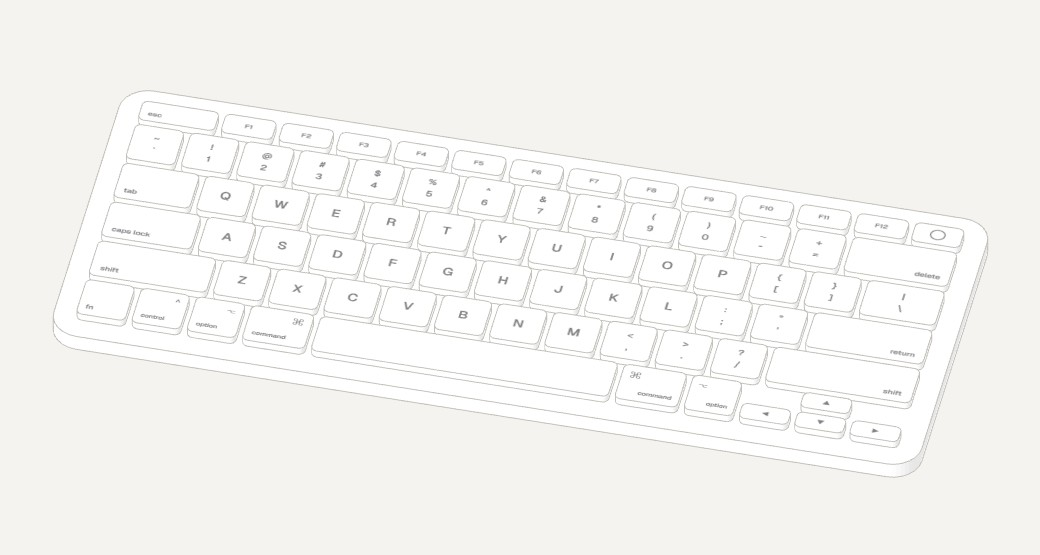
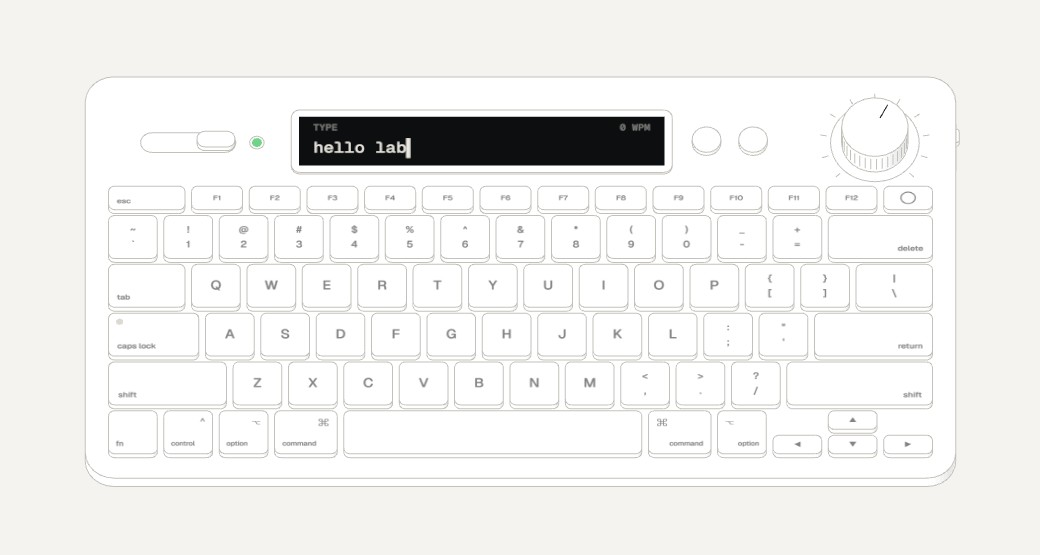
Lab: Keyboard open, with its control strip and a fixed straight view; Desk Lamp to the end

Changed region(s): [[0.0615, 0.1532, 0.9231, 0.8883], [0.8615, 0.245, 0.8923, 0.2757], [0.0923, 0.7045, 0.1231, 0.7351]]

diff --git a/lab-board/pieces/keyboard/index.html b/lab-board/pieces/keyboard/index.html
@@ -2,7 +2,6 @@
 <html lang="en">
 <head>
 <meta charset="utf-8">
-<script src="../../shared/lab-lock.js?v=3"></script>
 <meta name="viewport" content="width=device-width, initial-scale=1, viewport-fit=cover">
 <title>Keyboard · lab</title>
 <meta name="theme-color" content="#f4f3ef">
@@ -14,14 +13,14 @@
   /* A flat Mac keyboard drawn like Line Interactions: low keys in an aluminium slab, thin lines over quiet fills, every key a rounded
      cap with its legend printed on top in the lab's type, the keys laid out as on a flat low-profile keyboard with command and option keys. Point at a key and it lights; click it, or type
      on your own keyboard, and it goes down with a soft click and comes back up (the click synthesised on the spot, Soft, Thock or Crisp).
-     Drag the ground to turn it, the wheel or − / + to zoom. */
+     The view is fixed, straight on; the wheel or − / + zooms. */
   :root { --page: #17181b; --plate: #121314; --morph: .55s cubic-bezier(.3,1.12,.4,1); --ease: cubic-bezier(.22,.61,.36,1); }
   body.light { --page: #fff; --plate: #f4f3ef; }
   * { box-sizing: border-box; -webkit-tap-highlight-color: transparent; }
   html, body { margin: 0; height: 100%; }
   body { background: var(--page); font-family: var(--lab-font); overflow: hidden; transition: background .4s; }
   .plate { position: fixed; inset: 0; overflow: hidden; touch-action: none; cursor: move; background: var(--plate); transition: inset var(--morph), border-radius var(--morph), background-color .4s; }
-  .plate.over { cursor: pointer; } .plate.dragging, .plate.dragging * { cursor: grabbing; }
+  .plate.over { cursor: pointer; }
   body.tuning .plate { inset: 16px 368px 16px 16px; border-radius: 26px; }
   .plate canvas { position: absolute; inset: 0; width: 100%; height: 100%; display: block; }
   .back, .tune, .mode { position: fixed; top: 16px; z-index: 6; }
@@ -63,7 +62,7 @@
 <a class="back" href="../../" aria-label="Back to the lab" title="Back to the lab"><svg viewBox="0 0 24 24" fill="none" stroke="currentColor" stroke-width="1.75" stroke-linecap="round" stroke-linejoin="round" aria-hidden="true"><path d="M19 12H5M11 18l-6-6 6-6"/></svg></a>
 <div class="mode lab-seg" id="mode" role="radiogroup" aria-label="Light or dark"><button type="button" role="radio" data-m="light">Light</button><button type="button" role="radio" data-m="dark">Dark</button></div>
 <button class="tune" id="tune" type="button" aria-controls="panel" aria-expanded="false"><svg viewBox="0 0 24 24" fill="none" stroke="currentColor" stroke-width="1.75" stroke-linecap="round" stroke-linejoin="round" aria-hidden="true"><path d="M4 7h10M18 7h2M4 17h4M12 17h8"/><circle cx="16" cy="7" r="2"/><circle cx="10" cy="17" r="2"/></svg>Customize</button>
-<main class="plate" id="plate" aria-label="A flat keyboard: click a key or type on your own keyboard; drag the ground to turn it"></main>
+<main class="plate" id="plate" aria-label="A flat keyboard: click a key or type on your own keyboard"></main>
 <p class="hint">Click a key, or type</p>
 <div class="view" role="group" aria-label="The view">
   <button type="button" id="zout" aria-label="Zoom out"><svg viewBox="0 0 24 24" fill="none" stroke="currentColor" stroke-width="1.8" stroke-linecap="round" aria-hidden="true"><path d="M6 12h12"/></svg></button>
@@ -80,7 +79,7 @@ import * as THREE from 'three';
 
 // ---------- the settings; kept in the browser ----------
 const KEY = 'lab.keyboard.v1';
-const DEF = { sound: true, vol: .6, click: 'soft', travel: .55 };
+const DEF = { sound: true, vol: .6, click: 'soft', travel: .55, light: true };
 let P = (() => { const p = { ...DEF }; try { const o = JSON.parse(localStorage.getItem(KEY) || '{}'); for (const k in DEF) if (typeof o[k] === typeof DEF[k]) p[k] = o[k]; } catch { } return p; })();
 const save = () => { try { const d = {}; for (const k in P) if (P[k] !== DEF[k]) d[k] = P[k]; localStorage.setItem(KEY, JSON.stringify(d)); } catch { } };
 const $ = id => document.getElementById(id), plate = $('plate');
@@ -148,6 +147,7 @@ const SFX = {
   tick(step, k = 'tick') { if (!rate(k, 55)) return; const c = snd(); if (!c) return; const t = c.currentTime, f = 520 * 2 ** (PENTA[Math.max(0, Math.min(PENTA.length - 1, step))] / 12);
     tone(c, t, f, 'sine', .07, .09, f * .985, .006); },
   press() { const c = snd(); if (!c) return; const t = c.currentTime; tone(c, t, 240, 'sine', .22, .12, 170, .004); burst(c, t, 900, .7, .12, .04, 'lowpass'); },
+  detent() { if (!rate('det', 25)) return; const c = snd(); if (!c) return; const t = c.currentTime; burst(c, t, 2400, 2, .1, .007, 'bandpass'); },   // (the knob's notches)
   thud() { const c = snd(); if (!c) return; const t = c.currentTime; tone(c, t, 150, 'sine', .3, .2, 85, .004); burst(c, t, 500, .7, .18, .08, 'lowpass'); } };
 for (const ev of ['pointerdown', 'keydown']) addEventListener(ev, () => { if (P.sound) snd(); }, { capture: true });   // (made, or woken, inside the first gesture, so the browser lets it sound)
 
@@ -172,96 +172,189 @@ function kbLegend(k) { const pw = 96, W = Math.round(k.w * pw), Hh = Math.round(
     else if (kind === 'mod' || kind === 'modr') { x.font = f(22); x.textAlign = kind === 'mod' ? 'right' : 'left'; x.fillText(alt, kind === 'mod' ? W - pad : pad, pad + 14); x.font = f(15); x.textAlign = kind === 'mod' ? 'left' : 'right'; x.fillText(main, kind === 'mod' ? pad : W - pad, Hh - pad - 8); }
     else if (kind === 'arrow') { x.font = f(18); x.textAlign = 'center'; x.fillText(main, W / 2, Hh / 2 + 1); }
     else if (kind === 'power') { x.strokeStyle = '#fff'; x.lineWidth = 2.5; x.beginPath(); x.arc(W / 2, Hh / 2, Hh * .26, 0, Math.PI * 2); x.stroke(); } }); }
-function build() { for (const o of [...KB.children]) { KB.remove(o); o.traverse(c => { c.geometry?.dispose(); if (c.material?.map) c.material.map.dispose(); }); } sils = []; kbKeys = []; kbHover = kbHeld = null;
-  const rowsH = KB_ROWS.reduce((a, r) => a + r.h, 0), BW = 15 * KB_U + .36, BD = rowsH * KB_U + .36, base = prism(BW, BD, KB_BASE, .26, KB); base.g.position.y = -KB_BASE;
-  let z = -rowsH * KB_U / 2;
+// ---------- the control strip behind the keys: a mute slide with its LED, a small screen with two round buttons, a knob that stands up ----------
+// (and on the right side of the slab a little slide for light and dark. Each part is drawn like the keys: rounded solids, thin lines)
+const STRIP = .95, SCREEN = { w: 3.3, d: .5 }, KNOB = { r: .3, h: .3 };
+let strip = {}, capsOn = false, shiftDown = 0, typed = '', presses = [], keyCount = 0, screenMode = 0, overlay = null, ripples = [];
+const SCREENS = ['type', 'stats', 'clock'];
+const scr = (() => { const c = document.createElement('canvas'); c.width = 720; c.height = 110; const t = new THREE.CanvasTexture(c); t.colorSpace = THREE.SRGBColorSpace; t.anisotropy = 4; return { c, x: c.getContext('2d'), t, dirty: true }; })();
+const wpm = () => { const now = performance.now(); presses = presses.filter(t => now - t < 12000); if (presses.length < 3) return 0; const span = Math.max(3000, now - presses[0]); return Math.round(presses.length / 5 / (span / 60000)); };
+function say(text, ms = 1300) { overlay = { text, until: performance.now() + ms }; scr.dirty = true; wake(); }
+function drawScreen() { const { c, x } = scr, W = c.width, H = c.height, now = performance.now(), mono = n => `500 ${n}px "Geist Mono", ui-monospace, monospace`;
+  x.fillStyle = '#0d0e10'; x.fillRect(0, 0, W, H); x.fillStyle = '#e9e7e0'; x.textBaseline = 'middle';
+  const dim = a => x.fillStyle = `rgba(233,231,224,${a})`;
+  if (overlay && now < overlay.until) { const o = overlay.text;
+    if (o.startsWith('VOLUME')) { x.font = mono(26); dim(.55); x.textAlign = 'left'; x.fillText('VOLUME', 28, 34); dim(1); x.textAlign = 'right'; x.fillText(Math.round(P.vol * 100) + '%', W - 28, 34);
+      const n = 24; for (let i = 0; i < n; i++) { dim(i < Math.round(P.vol * n) ? 1 : .18); x.fillRect(28 + i * ((W - 56) / n), 64, (W - 56) / n - 6, 22); } }
+    else { x.font = mono(34); x.textAlign = 'center'; dim(1); x.fillText(o, W / 2, H / 2); }
+    scr.t.needsUpdate = true; return; }
+  overlay = null; const m = SCREENS[screenMode];
+  if (m === 'type') { x.font = mono(20); x.textAlign = 'left'; dim(.5); x.fillText('TYPE', 28, 26); x.textAlign = 'right'; x.fillText(`${wpm()} WPM`, W - 28, 26);
+    x.font = mono(34); x.textAlign = 'left'; dim(1); const line = typed.slice(-30), caret = Math.floor(now / 530) % 2 === 0; x.fillText(line + (caret ? '▍' : ''), 28, 72); }
+  else if (m === 'stats') { const cells = [['WPM', String(wpm())], ['KEYS', String(keyCount)], ['CLICK', P.click.toUpperCase()], ['SOUND', P.sound ? Math.round(P.vol * 100) + '%' : 'OFF']];
+    cells.forEach(([a, b], i) => { const cx = 28 + i * (W - 56) / 4; x.textAlign = 'left'; x.font = mono(18); dim(.5); x.fillText(a, cx, 30); x.font = mono(32); dim(1); x.fillText(b, cx, 72); }); }
+  else { const d = new Date(), hh = String(d.getHours()).padStart(2, '0'), mm = String(d.getMinutes()).padStart(2, '0'), colon = d.getSeconds() % 2 === 0;
+    x.font = mono(54); x.textAlign = 'left'; dim(1); x.fillText(hh + (colon ? ':' : ' ') + mm, 28, H / 2 + 2); x.font = mono(20); x.textAlign = 'right'; dim(.5);
+    x.fillText(d.toLocaleDateString('en-GB', { weekday: 'short', day: 'numeric', month: 'short' }).toUpperCase(), W - 28, H / 2 + 2); }
+  scr.t.needsUpdate = true; }
+setInterval(() => { if (SCREENS[screenMode] !== 'stats' || overlay) { scr.dirty = true; wake(); } }, 500);   // (the caret blinks, the clock's colon too)
+
+function build() { for (const o of [...KB.children]) { KB.remove(o); o.traverse(c => { c.geometry?.dispose(); if (c.material?.map && c.material.map !== scr.t) c.material.map.dispose(); }); } sils = []; kbKeys = []; kbHover = kbHeld = null;
+  const rowsH = KB_ROWS.reduce((a, r) => a + r.h, 0), keysBack = -rowsH * KB_U / 2, BW = 15 * KB_U + .36, BD = rowsH * KB_U + .36 + STRIP, base = prism(BW, BD, KB_BASE, .26, KB);
+  base.g.position.set(0, -KB_BASE, -STRIP / 2); strip.base = base;
+  let z = keysBack;
   const add = (spec, x, zc, w, h) => { const g = new THREE.Group(); g.position.set(x, 0, zc); KB.add(g); const cw = w * KB_U - KB_GAP, cd = h * KB_U - KB_GAP;
-    const pr = prism(cw, cd, KB_T, Math.min(.055, cw / 2 - .001, cd / 2 - .001), g);
-    const k = { g, pr, m: pr.m, spec, code: spec[2], w, h, big: w >= 1.5 || spec[3] === 'space', d: { p: 0 }, down: false, lines: pr.lines };
+    const pr = prism(cw, cd, KB_T, Math.min(.055, cw / 2 - .001, cd / 2 - .001), g), mat = new THREE.LineBasicMaterial({ color: 0xc4c1ba }); for (const l of pr.lines) l.material = mat;
+    const k = { g, pr, m: pr.m, spec, code: spec[2], w, h, x, z: zc, big: w >= 1.5 || spec[3] === 'space', d: { p: 0 }, down: false, glow: 0, mat };
     const lm = new THREE.MeshBasicMaterial({ map: kbLegend(k), transparent: true, depthWrite: false }), lg = new THREE.Mesh(new THREE.PlaneGeometry(cw * .94, cd * .94).rotateX(-Math.PI / 2), lm); lg.position.y = KB_T + .002; pr.g.add(lg); k.legend = lg;
+    if (k.code === 'CapsLock') { const led = new THREE.Mesh(new THREE.CircleGeometry(.032, 20).rotateX(-Math.PI / 2), new THREE.MeshBasicMaterial({ color: 0x2a2b2f })); led.position.set(-cw / 2 + .1, KB_T + .004, -cd / 2 + .09); pr.g.add(led); strip.capsLed = led; }   // (the caps lock LED, on the key)
     kbKeys.push(k); return k; };
   for (const row of KB_ROWS) { let x = -15 * KB_U / 2; const zc = z + row.h * KB_U / 2;
     for (const spec of row.keys) { const w = spec[1];
       if (spec[0] === 'ARROWS') { const hz = KB_U / 4; add(['◀', 1, 'ArrowLeft', 'arrow'], x + KB_U / 2, zc + hz, 1, .5); add(['▲', 1, 'ArrowUp', 'arrow'], x + KB_U * 1.5, zc - hz, 1, .5); add(['▼', 1, 'ArrowDown', 'arrow'], x + KB_U * 1.5, zc + hz, 1, .5); add(['▶', 1, 'ArrowRight', 'arrow'], x + KB_U * 2.5, zc + hz, 1, .5); x += 3 * KB_U; continue; }
       add(spec, x + w * KB_U / 2, zc, w, row.h); x += w * KB_U; }
     z += row.h * KB_U; }
-  paint(); }
-// (a key goes down with a click and comes back with a softer one; the cap gives at the top, its foot stays on the slab, so the line
-// where it meets the slab is always drawn. No sound for the pointer passing over: the click is the sound)
-function kbPress(k, on) { if (!k || k.down === on) return; k.down = on; if (!BARE) SFX.key(k.big, !on); paint(); wake(); }
+  // (the strip: its parts sit on the slab, centred on a line behind the function row)
+  const sz = keysBack - STRIP / 2 + .02, X0 = -15 * KB_U / 2;
+  // the mute slide: a slot cut into the slab (drawn), a block that slides in it, the LED beside
+  const sl = new THREE.Group(); sl.position.set(X0 + .75, 0, sz); KB.add(sl); segs([...rrect(0, 0, .86, .2, .1, .003)], sl, M.line);
+  const knobS = prism(.34, .16, .07, .07, sl); strip.slide = { g: knobS.g, m: knobS.m, p: { p: P.sound ? 1 : 0 }, lines: knobS.lines };
+  const led = new THREE.Mesh(new THREE.CircleGeometry(.045, 24).rotateX(-Math.PI / 2), new THREE.MeshBasicMaterial({ color: 0x2a2b2f })); led.position.set(.62, .004, 0); sl.add(led); strip.led = led;
+  segs(circle(.62, 0, .065, .003, 24), sl, M.line);
+  // the screen: a dark glass set into the slab, a thin frame round it
+  const sc = new THREE.Group(); sc.position.set(-.35, 0, sz); KB.add(sc); const frame = prism(SCREEN.w + .14, SCREEN.d + .14, .03, .08, sc);
+  const glass = new THREE.Mesh(new THREE.PlaneGeometry(SCREEN.w, SCREEN.d).rotateX(-Math.PI / 2), new THREE.MeshBasicMaterial({ map: scr.t })); glass.position.y = .032; sc.add(glass); strip.frame = frame;
+  // two round buttons beside it
+  strip.btns = [0, 1].map(i => { const b = new THREE.Group(); b.position.set(-.35 + SCREEN.w / 2 + .38 + i * .42, 0, sz); KB.add(b); const pr = prism(.26, .26, .06, .129, b); return { g: b, pr, m: pr.m, d: { p: 0 }, down: false, lines: pr.lines, act: i ? 'click' : 'screen' }; });
+  // the knob: a short drum standing up, ribbed round its side, a notch on top that shows where it is
+  const kn = new THREE.Group(); kn.position.set(-X0 - .55, 0, sz); KB.add(kn); const turn = new THREE.Group(); kn.add(turn);
+  const kb = prism(KNOB.r * 2, KNOB.r * 2, KNOB.h, KNOB.r - .001, turn), rib = [];
+  for (let i = 0; i < 36; i++) { const a = i / 36 * Math.PI * 2; rib.push(V(Math.cos(a) * KNOB.r, .05, Math.sin(a) * KNOB.r), V(Math.cos(a) * KNOB.r, KNOB.h - .05, Math.sin(a) * KNOB.r)); }
+  kb.lines.push(segs(rib, turn)); kb.lines.push(segs([V(0, KNOB.h + .003, -KNOB.r * .35), V(0, KNOB.h + .003, -KNOB.r * .85)], turn, M.hi));
+  segs(circle(0, 0, KNOB.r + .1, .003, 48), kn); const ticks = []; for (let i = 0; i <= 10; i++) { const a = -Math.PI * .75 + i / 10 * Math.PI * 1.5 - Math.PI / 2; ticks.push(V(Math.cos(a) * (KNOB.r + .14), .003, Math.sin(a) * (KNOB.r + .14)), V(Math.cos(a) * (KNOB.r + .2), .003, Math.sin(a) * (KNOB.r + .2))); } segs(ticks, kn);
+  strip.knob = { g: kn, turn, m: kb.m, lines: kb.lines, ang: { p: volAng() } };
+  // the side slide (light / dark): on the right side of the slab, near the back
+  const ss = new THREE.Group(); ss.position.set(BW / 2 + .002, -KB_BASE / 2, keysBack - STRIP + .5); KB.add(ss); segs([V(0, -.04, -.22), V(0, -.04, .22), V(0, .04, -.22), V(0, .04, .22), V(0, -.04, -.22), V(0, .04, -.22), V(0, -.04, .22), V(0, .04, .22)], ss);
+  const nub = prism(.06, .14, .07, .03, ss); nub.g.position.y = -.035; strip.side = { g: nub.g, m: nub.m, lines: nub.lines, p: { p: mode === 'dark' ? 1 : 0 } };
+  paint(); scr.dirty = true; }
+const volAng = () => -Math.PI * .75 + P.vol * Math.PI * 1.5;
+function circle(cx, cz, r, y, n) { const pts = []; for (let i = 0; i < n; i++) { const a = i / n * Math.PI * 2, b = (i + 1) / n * Math.PI * 2; pts.push(V(cx + Math.cos(a) * r, y, cz + Math.sin(a) * r), V(cx + Math.cos(b) * r, y, cz + Math.sin(b) * r)); } return pts; }
+
+// ---------- keys: down with a click and back up; what they type goes to the screen; the backlight answers ----------
+// (a pressed key lights at once and fades; a ring of light runs out from it across its neighbours. No sound for the pointer passing
+// over: the click is the sound)
+const charOf = k => { const [main, , , kind, alt] = k.spec, up = !!shiftDown !== capsOn;
+  if (kind === 'letter') return up ? main : main.toLowerCase(); if (kind === 'two') return shiftDown ? alt : main; if (k.code === 'Space') return ' '; return null; };
+function kbPress(k, on) { if (!k || k.down === on) return; k.down = on; if (!BARE) SFX.key(k.big, !on);
+  if (k.code === 'ShiftLeft' || k.code === 'ShiftRight') shiftDown = Math.max(0, shiftDown + (on ? 1 : -1));
+  if (on) { keyCount++; k.glow = 1; if (P.light) ripples.push({ x: k.x, z: k.z, t0: performance.now() });
+    if (k.code === 'CapsLock') { capsOn = !capsOn; say(capsOn ? 'CAPS LOCK ON' : 'CAPS LOCK OFF', 900); }
+    else if (k.code === 'Backspace') typed = typed.slice(0, -1); else if (k.code === 'Enter') typed = ''; else { const ch = charOf(k); if (ch) { typed = (typed + ch).slice(-200); presses.push(performance.now()); } }
+    scr.dirty = true; }
+  paint(); wake(); }
 function paint() { const c = PAL[mode]; M.fill.color.set(c.fill); M.line.color.set(c.line); M.hi.color.set(c.hi); plate.style.background = c.bg;
-  for (const k of kbKeys) { const on = k === kbHover || k.down; for (const l of k.lines) l.material = on ? M.hi : M.line; k.legend.material.color.set(c.hi); k.legend.material.opacity = on ? 1 : .55; } wake(); }
+  for (const k of kbKeys) { const on = k === kbHover || k.down ? 1 : 0, g = Math.max(on, k.glow); k.mat.color.setHex(c.line).lerp(new THREE.Color(c.hi), g); k.legend.material.color.set(c.hi); k.legend.material.opacity = .55 + .45 * g; }
+  if (strip.capsLed) strip.capsLed.material.color.set(capsOn ? 0x6fd38a : (mode === 'dark' ? 0x2a2b2f : 0xdcdad3));
+  if (strip.led) strip.led.material.color.set(P.sound ? 0x6fd38a : (mode === 'dark' ? 0x2a2b2f : 0xdcdad3));
+  const hot = (o, on) => { if (o) for (const l of o.lines) l.material = on ? M.hi : M.line; };
+  hot(strip.slide, strip.hover === 'slide'); hot(strip.side, strip.hover === 'side'); for (const b of strip.btns || []) hot(b.pr, strip.hover === b || b.down); hot(strip.frame, false);
+  if (strip.knob) { for (const l of strip.knob.lines.slice(0, -1)) l.material = strip.hover === 'knob' || knobDrag ? M.hi : M.line; }
+  wake(); }
 
 // ---------- light and dark ----------
 let mode = BARE ? (q.get('mode') === 'dark' ? 'dark' : 'light') : (() => { try { return localStorage.getItem(KEY + '.mode') || 'light'; } catch { return 'light'; } })();
-function setMode(m) { mode = m; if (!BARE) try { localStorage.setItem(KEY + '.mode', m); } catch { }
+function setMode(m, quiet) { mode = m; if (!BARE) try { localStorage.setItem(KEY + '.mode', m); } catch { }
   document.body.classList.toggle('light', m === 'light'); document.body.classList.toggle('dark', m === 'dark'); $('panel').classList.toggle('dark', m === 'dark');
-  document.querySelectorAll('#mode button').forEach(b => b.setAttribute('aria-checked', String(b.dataset.m === m))); document.querySelector('meta[name=theme-color]').content = m === 'dark' ? '#121314' : '#f4f3ef'; paint(); }
+  document.querySelectorAll('#mode button').forEach(b => b.setAttribute('aria-checked', String(b.dataset.m === m))); document.querySelector('meta[name=theme-color]').content = m === 'dark' ? '#121314' : '#f4f3ef';
+  if (!quiet) say(m === 'dark' ? 'DARK' : 'LIGHT', 800); paint(); }
 document.querySelectorAll('#mode button').forEach(b => b.onclick = () => setMode(b.dataset.m));
 
 // ---------- the view ----------
-const VIEW = { az: .22, el: .78, dAz: { p: 0 }, dEl: { p: 0 }, tAz: 0, tEl: 0, z: { p: 1 }, tz: 1 };
+const VIEW = { el: 1.08, z: { p: 1 }, tz: 1 };   // (straight on, from a little above the front: no turning)
 const zoomBy = f => { VIEW.tz = Math.max(.45, Math.min(3, VIEW.tz * f)); wake(); };
-$('zin').onclick = () => zoomBy(1.25); $('zout').onclick = () => zoomBy(1 / 1.25); $('zreset').onclick = () => { VIEW.tAz = VIEW.tEl = 0; VIEW.tz = 1; wake(); };
+$('zin').onclick = () => zoomBy(1.25); $('zout').onclick = () => zoomBy(1 / 1.25); $('zreset').onclick = () => { VIEW.tz = 1; wake(); };
 // (on the board, the live box draws into the still's own frame, cropped to the box the way the still's picture is covered into it)
 let W = 1, H = 1; const FRAME = 450 / 240;
 new ResizeObserver(() => { W = plate.clientWidth || 1; H = plate.clientHeight || 1;
   if (BARE) { const sw = W, sh = H; if (W / H > FRAME) H = W / FRAME; else W = H * FRAME; Object.assign(renderer.domElement.style, { inset: 'auto', width: W + 'px', height: H + 'px', left: (sw - W) / 2 + 'px', top: (sh - H) / 2 + 'px' }); }
   renderer.setSize(W, H, false); wake(); }).observe(plate);
-function placeCam() { const a = W / H, S = Math.max(4.6, 9.2 / a) / VIEW.z.p, az = VIEW.az + VIEW.dAz.p, el = Math.max(.06, Math.min(1.45, VIEW.el + VIEW.dEl.p));
+function placeCam() { const a = W / H, S = Math.max(5, 9.4 / a) / VIEW.z.p, az = 0, el = VIEW.el;
   cam.left = -S * a / 2; cam.right = S * a / 2; cam.top = S / 2; cam.bottom = -S / 2; cam.updateProjectionMatrix();
-  cam.position.set(Math.sin(az) * Math.cos(el) * 80, Math.sin(el) * 80, Math.cos(az) * Math.cos(el) * 80); cam.lookAt(0, 0, 0); }
+  cam.position.set(Math.sin(az) * Math.cos(el) * 80, Math.sin(el) * 80, -STRIP / 2 + Math.cos(az) * Math.cos(el) * 80); cam.lookAt(0, 0, -STRIP / 2); }
 
-// ---------- the pointer and your own keyboard ----------
-let orbit = null;
+// ---------- the controls ----------
+function setSound(on) { P.sound = on; save(); if (ctl.sound) ctl.sound.set(on); if (on) { snd(); SFX.key(false); } say(on ? 'SOUND ON' : 'MUTED', 900); paint(); }
+function setVol(v, tick) { const nv = Math.max(0, Math.min(1, v)), step = Math.round(nv * 20); if (tick && step !== Math.round(P.vol * 20)) SFX.detent(); P.vol = nv; save(); if (ctl.vol) ctl.vol.set(nv); if (SND.out) SND.out.gain.value = nv; say('VOLUME', 1200); }
+function pressButton(b, on) { if (b.down === on) return; b.down = on; if (on) { SFX.key(false); if (b.act === 'screen') { screenMode = (screenMode + 1) % SCREENS.length; overlay = null; scr.dirty = true; } else { const L = ['soft', 'thock', 'crisp']; P.click = L[(L.indexOf(P.click) + 1) % 3]; save(); if (ctl.click) ctl.click.set(P.click); say('CLICK · ' + P.click.toUpperCase(), 1000); } } else SFX.key(false, true); paint(); }
+// (what is under the pointer: a key, or one of the strip's parts)
+function pick() { const parts = [...kbKeys.map(k => k.m)]; if (strip.knob) parts.push(strip.knob.m, strip.slide.m, strip.side.m, ...strip.btns.map(b => b.m)); const h = hitOf(parts); if (!h) return null; const o = h.object;
+  if (o === strip.knob?.m) return 'knob'; if (o === strip.slide?.m) return 'slide'; if (o === strip.side?.m) return 'side'; const b = strip.btns?.find(x => x.m === o); if (b) return b; return kbKeys.find(k => k.m === o) || null; }
+let knobDrag = null;
 const setNdc = e => { const r = plate.getBoundingClientRect(); ndc.set((e.clientX - r.left) / r.width * 2 - 1, -((e.clientY - r.top) / r.height * 2 - 1)); };
 if (!DEMO) {
-  plate.addEventListener('pointerdown', e => { if (e.button !== 0) return; setNdc(e); const h = hitOf(kbKeys.map(k => k.m)); try { plate.setPointerCapture(e.pointerId); } catch { }
-    if (h) { kbHeld = kbKeys.find(k => k.m === h.object); kbPress(kbHeld, true); return; }
-    orbit = { x: e.clientX, y: e.clientY, az: VIEW.tAz, el: VIEW.tEl }; plate.classList.add('dragging'); });
+  plate.addEventListener('pointerdown', e => { if (e.button !== 0) return; setNdc(e); const p = pick(); try { plate.setPointerCapture(e.pointerId); } catch { }
+    if (p === 'knob') { knobDrag = { y: e.clientY, x: e.clientX, v: P.vol }; paint(); return; }
+    if (p === 'slide') { setSound(!P.sound); return; } if (p === 'side') { setMode(mode === 'dark' ? 'light' : 'dark'); SFX.key(false); return; }
+    if (p && p.act) { kbHeld = p; pressButton(p, true); return; }
+    if (p) { kbHeld = p; kbPress(p, true); return; } });
   plate.addEventListener('pointermove', e => { setNdc(e);
-    if (orbit) { VIEW.tAz = orbit.az - (e.clientX - orbit.x) * .006; VIEW.tEl = Math.max(-.6, Math.min(.7, orbit.el + (e.clientY - orbit.y) * .004)); VIEW.dAz.p = VIEW.tAz; VIEW.dEl.p = VIEW.tEl; wake(); return; }
-    const h = hitOf(kbKeys.map(k => k.m)), k = h ? kbKeys.find(q => q.m === h.object) : null; if (k !== kbHover) { kbHover = k; paint(); } plate.classList.toggle('over', !!k); });
-  const up = () => { if (kbHeld) { kbPress(kbHeld, false); kbHeld = null; } orbit = null; plate.classList.remove('dragging'); }; plate.addEventListener('pointerup', up); plate.addEventListener('pointercancel', up);
-  plate.addEventListener('pointerleave', () => { if (!orbit && kbHover) { kbHover = null; plate.classList.remove('over'); paint(); } });
-  plate.addEventListener('wheel', e => { e.preventDefault(); zoomBy(Math.exp(-e.deltaY * .0015)); }, { passive: false });
+    if (knobDrag) { setVol(knobDrag.v + ((knobDrag.y - e.clientY) + (e.clientX - knobDrag.x)) * .004, true); return; }
+    const p = pick(), key = p && p.code ? p : null, part = p && !p.code ? p : null; if (key !== kbHover || part !== strip.hover) { kbHover = key; strip.hover = part; paint(); } plate.classList.toggle('over', !!p); });
+  const up = () => { if (knobDrag) { knobDrag = null; paint(); } if (kbHeld) { if (kbHeld.act) pressButton(kbHeld, false); else kbPress(kbHeld, false); kbHeld = null; } };
+  plate.addEventListener('pointerup', up); plate.addEventListener('pointercancel', up);
+  plate.addEventListener('pointerleave', () => { if (kbHover || strip.hover) { kbHover = null; strip.hover = null; plate.classList.remove('over'); paint(); } });
+  plate.addEventListener('wheel', e => { e.preventDefault(); setNdc(e); if (pick() === 'knob') setVol(P.vol - Math.sign(e.deltaY) * .05, true); else zoomBy(Math.exp(-e.deltaY * .0015)); }, { passive: false });
   addEventListener('keydown', e => { if (e.target.closest?.('input, .panel')) return; if (e.key === 'Escape' && document.body.classList.contains('tuning')) { openPanel(false); return; }
-    const k = kbKeys.find(q => q.code === e.code); if (!k) return; if (!['F5', 'F11', 'F12'].includes(e.code) && !(e.metaKey && e.code !== 'MetaLeft' && e.code !== 'MetaRight')) e.preventDefault(); if (!e.repeat) kbPress(k, true); }, true);
+    const k = kbKeys.find(q => q.code === e.code); if (!k) return; if (!['F5', 'F11', 'F12'].includes(e.code) && !(e.metaKey && e.code !== 'MetaLeft' && e.code !== 'MetaRight')) e.preventDefault();
+    if (e.code === 'CapsLock' && typeof e.getModifierState === 'function') { const st = e.getModifierState('CapsLock'); if (!e.repeat && st === capsOn) capsOn = !st; }
+    if (!e.repeat) kbPress(k, true); }, true);
   addEventListener('keyup', e => { const k = kbKeys.find(q => q.code === e.code); if (k) kbPress(k, false); }, true);
-  addEventListener('blur', () => { for (const k of kbKeys) if (k.down) kbPress(k, false); });
+  addEventListener('blur', () => { for (const k of kbKeys) if (k.down) kbPress(k, false); shiftDown = 0; });
 }
 
 // ---------- the frame ----------
 let raf = 0; const wake = () => { if (!raf) raf = requestAnimationFrame(frame); };
-function frame() { raf = 0; let busy = false;
-  for (const k of kbKeys) { if (ease(k.d, k.down ? 1 : 0, k.down ? .55 : .3)) busy = true; k.pr.g.scale.y = 1 - k.d.p * P.travel; }
-  if (ease(VIEW.z, VIEW.tz, .14)) busy = true; if (!orbit) { if (ease(VIEW.dAz, VIEW.tAz, .1)) busy = true; if (ease(VIEW.dEl, VIEW.tEl, .1)) busy = true; }
-  placeCam(); updateSils(); renderer.render(scene, cam); if (busy || orbit) wake(); }
+function frame() { raf = 0; let busy = false; const now = performance.now(), c = PAL[mode], hiC = new THREE.Color(c.hi);
+  ripples = ripples.filter(r => now - r.t0 < 900);
+  for (const k of kbKeys) { if (ease(k.d, k.down ? 1 : 0, k.down ? .55 : .3)) busy = true; k.pr.g.scale.y = 1 - k.d.p * P.travel;
+    let rg = 0; for (const r of ripples) { const t = (now - r.t0) / 1000, dist = Math.hypot(k.x - r.x, k.z - r.z), front = t * 6; rg = Math.max(rg, Math.exp(-((dist - front) ** 2) / .08) * (1 - t / .9) * .6); }
+    const target = Math.max(k.down || k === kbHover ? 1 : 0, rg); if (k.glow > target + .002) { k.glow = Math.max(target, k.glow - .035); busy = true; } else k.glow = target;
+    const g = Math.max(k.glow, k.down || k === kbHover ? 1 : 0); k.mat.color.setHex(c.line).lerp(hiC, g); k.legend.material.opacity = .55 + .45 * g; }
+  if (ripples.length) busy = true;
+  if (strip.slide) { if (ease(strip.slide.p, P.sound ? 1 : 0, .25)) busy = true; strip.slide.g.position.x = -.25 + strip.slide.p.p * .5; }
+  if (strip.side) { if (ease(strip.side.p, mode === 'dark' ? 1 : 0, .25)) busy = true; strip.side.g.position.z = -.1 + strip.side.p.p * .2; }
+  for (const b of strip.btns || []) { if (ease(b.d, b.down ? 1 : 0, b.down ? .55 : .3)) busy = true; b.pr.g.scale.y = 1 - b.d.p * .6; }
+  if (strip.knob) { if (ease(strip.knob.ang, volAng(), .3)) busy = true; strip.knob.turn.rotation.y = -strip.knob.ang.p; }
+  if (overlay && now >= overlay.until) { overlay = null; scr.dirty = true; } if (overlay) busy = true;
+  if (scr.dirty) { scr.dirty = false; drawScreen(); }
+  if (ease(VIEW.z, VIEW.tz, .14)) busy = true;
+  placeCam(); updateSils(); renderer.render(scene, cam); if (busy || knobDrag) wake(); }
 
 // ---------- the panel ----------
 const panel = $('panel'); let ctl = {};
 function buildPanel() { panel.innerHTML = ''; ctl = {};
-  const head = document.createElement('header'); head.className = 'ph'; head.innerHTML = '<div><h2>Keyboard</h2><p>A flat low-profile keyboard: click a key, or type on your own; each key goes down with a soft click.</p></div><button class="pc" type="button" aria-label="Close"><svg viewBox="0 0 24 24" fill="none" stroke="currentColor" stroke-width="1.75" stroke-linecap="round" aria-hidden="true"><path d="M6 6l12 12M18 6L6 18"/></svg></button>';
+  const head = document.createElement('header'); head.className = 'ph'; head.innerHTML = '<div><h2>Keyboard</h2><p>A flat low-profile keyboard with a control strip: the slide mutes it, the knob turns the volume, the small screen shows what you type, the round buttons change the screen and the click; a slide on the right side switches light and dark.</p></div><button class="pc" type="button" aria-label="Close"><svg viewBox="0 0 24 24" fill="none" stroke="currentColor" stroke-width="1.75" stroke-linecap="round" aria-hidden="true"><path d="M6 6l12 12M18 6L6 18"/></svg></button>';
   head.querySelector('.pc').onclick = () => openPanel(false); panel.appendChild(head);
-  const set = (k, v) => { P[k] = v; save(); wake(); };
-  const sl = (g, k, label, min, max, st, unit) => ctl[k] = LabUI.slider(g, { label, min, max, step: st, unit, value: P[k], def: DEF[k], onInput: v => set(k, v) });
-  const g0 = LabUI.group(panel, 'Keys', { key: KEY + '.g.keys' }); sl(g0, 'travel', 'Travel', .2, .8, .05);
-  const gs = LabUI.group(panel, 'Sound', { key: KEY + '.g.sound' }); ctl.sound = LabUI.check(gs, { label: 'Sound', value: P.sound, onChange: v => set('sound', v) }); sl(gs, 'vol', 'Volume', 0, 1, .05);
+  const set = (k, v) => { P[k] = v; save(); paint(); wake(); };
+  const sl = (g, k, label, min, max, st, unit, on) => ctl[k] = LabUI.slider(g, { label, min, max, step: st, unit, value: P[k], def: DEF[k], onInput: on || (v => set(k, v)) });
+  const g0 = LabUI.group(panel, 'Keys', { key: KEY + '.g.keys' }); sl(g0, 'travel', 'Travel', .2, .8, .05); ctl.light = LabUI.check(g0, { label: 'Light that answers the keys', value: P.light, onChange: v => set('light', v) });
+  const gs = LabUI.group(panel, 'Sound', { key: KEY + '.g.sound' }); ctl.sound = LabUI.check(gs, { label: 'Sound', value: P.sound, onChange: v => setSound(v) }); sl(gs, 'vol', 'Volume', 0, 1, .05, '', v => setVol(v));
   ctl.click = LabUI.seg(gs, { label: 'Click', options: [['soft', 'Soft'], ['thock', 'Thock'], ['crisp', 'Crisp']], value: P.click, onChange: v => { set('click', v); SFX.key(false); setTimeout(() => SFX.key(false, true), 90); } });
   { const r = document.createElement('div'); r.className = 'ui-row'; r.innerHTML = '<span class="ui-label">Hear it</span><button type="button" class="play-intro">Test</button>'; gs.appendChild(r); r.querySelector('button').onclick = () => { SFX.key(false); setTimeout(() => SFX.key(false, true), 90); }; }
   const acts = document.createElement('div'); acts.className = 'acts'; acts.innerHTML = '<button type="button" data-a="reset">Reset all</button>'; panel.appendChild(acts);
-  acts.querySelector('[data-a=reset]').onclick = () => { P = { ...DEF }; save(); buildPanel(); wake(); }; }
+  acts.querySelector('[data-a=reset]').onclick = () => { P = { ...DEF }; save(); buildPanel(); paint(); }; }
 function openPanel(on) { document.body.classList.toggle('tuning', on); $('tune').setAttribute('aria-expanded', String(on)); }
 $('tune').onclick = () => openPanel(true);
 
 // ---------- start; the board's box: ?thumb=1 the still, ?demo=1 the keys typing a few words on their own ----------
 if (BARE) document.body.classList.add('bare');
-setMode(mode); build(); buildPanel(); LabUI.segThumb($('mode'));
-document.fonts.ready.then(() => { for (const k of kbKeys) { k.legend.material.map.dispose(); k.legend.material.map = kbLegend(k); } wake(); });   // (the legends again once the type is in)
-if (DEMO) { const words = ['hello lab', 'line style', 'soft keys'], codeOf = ch => ch === ' ' ? 'Space' : 'Key' + ch.toUpperCase(); let w = 0;
-  const type = async () => { await new Promise(r => setTimeout(r, 900)); for (;;) { for (const ch of words[w++ % words.length]) { const k = kbKeys.find(q => q.code === codeOf(ch)); kbPress(k, true); await new Promise(r => setTimeout(r, 110)); kbPress(k, false); await new Promise(r => setTimeout(r, 70 + Math.random() * 90)); }
-    const r = kbKeys.find(q => q.code === 'Enter'); kbPress(r, true); await new Promise(res => setTimeout(res, 140)); kbPress(r, false); await new Promise(res => setTimeout(res, 1300)); } }; type(); }
-window.KEYS = { P: () => P, keys: () => kbKeys, press: kbPress, sfx: SFX };
+setMode(mode, true); build(); buildPanel(); LabUI.segThumb($('mode'));
+if (BARE) { typed = 'hello lab'; scr.dirty = true; }
+document.fonts.ready.then(() => { for (const k of kbKeys) { k.legend.material.map.dispose(); k.legend.material.map = kbLegend(k); } scr.dirty = true; wake(); });   // (the legends again once the type is in)
+if (DEMO) { const words = ['line style', 'soft keys', 'hello lab'], codeOf = ch => ch === ' ' ? 'Space' : 'Key' + ch.toUpperCase(); let w = 0;
+  const type = async () => { await new Promise(r => setTimeout(r, 1200)); typed = ''; for (;;) { for (const ch of words[w++ % words.length]) { const k = kbKeys.find(q => q.code === codeOf(ch)); kbPress(k, true); await new Promise(r => setTimeout(r, 110)); kbPress(k, false); await new Promise(r => setTimeout(r, 70 + Math.random() * 90)); }
+    await new Promise(res => setTimeout(res, 900)); const r = kbKeys.find(q => q.code === 'Enter'); kbPress(r, true); await new Promise(res => setTimeout(res, 140)); kbPress(r, false); await new Promise(res => setTimeout(res, 600)); } }; type(); }
+window.KEYS = { P: () => P, keys: () => kbKeys, press: kbPress, sfx: SFX, strip: () => strip, setVol, setSound };
 </script>
 </body>
 </html>

diff --git a/lab-board/index.html b/lab-board/index.html
@@ -518,7 +518,6 @@ const PIECES = [
   { slug:'furniture-configurator', variants:3, title:'Furniture Configurator', what:'A sideboard you build by hand in 3D: drag the sides, the dividers and the shelves (on a 5 cm grid), click a front to make it a door, drawers, shelves or a niche. Photo oak and real window light; when you stop, it is path traced. Exports a 4K render and a plan for the joiner with a cut list.', year:'2026', kind:'configurator', live:'pieces/furniture-configurator/', code:'https://github.com/vod123qwe/playground/tree/main/lab-board/pieces/furniture-configurator', image:'thumbs/furniture-configurator.jpg?v=2', depth:'thumbs/depth/furniture-configurator.png', video:'thumbs/furniture-configurator-hover.webm', words:['oak', 'light', 'joinery', 'path traced'], rect:{x:1570,y:60,w:440,h:230} },
   { slug:'line-studio', fresh:true, preview:'pieces/line-studio/?demo=1&fig=Pillars&mode=light', variants:6, title:'Line Interactions', what:'Figures drawn like a technical plate, thin lines over quiet fills. Shelf: VHS tapes on a shelf; take one out, carry it along, drop it into the gap. Carousel: audio cassettes in an endless cover flow across the page; scroll and the one in the middle faces you. Cranes: noughts and crosses played by two gantry cranes; three in a row and the trapdoors drop the boxes into a fire. And three shapes that answer the pointer: a tray of blocks that ripples when you press one, cards in a line or a circle, the one you point at standing out, a field of posts of any shape. Drag the ground to turn the view, the wheel or − / + to zoom. Dark or light.', year:'2026', kind:'interaction', live:'pieces/line-studio/', code:'https://github.com/vod123qwe/playground/tree/main/lab-board/pieces/line-studio', image:'thumbs/line-studio.jpg?v=7', words:['three.js', 'line art', 'isometric', 'cassettes', 'cranes'], rect:{x:2570,y:70,w:420,h:315} },
   { slug:'gazeciarz-express', title:'Gazeciarz Express', what:'The paper round one way: streets that end. Off from home down Chestnut Street, a minute and a half of papers, then an obstacle course in the street’s own things (hay bales in the village, flower pots in the park, deck chairs by the sea, snowmen in winter), the paper with your score, and straight on to the next street.', year:'2026', kind:'game', live:'pieces/gazeciarz-express/', code:'https://github.com/vod123qwe/playground/tree/main/lab-board/pieces/gazeciarz-express', image:'thumbs/gazeciarz-express.jpg', video:'thumbs/gazeciarz-express-hover.webm', words:['arcade', 'one way', 'obstacle course', 'three.js'], rect:{x:100,y:680,w:480,h:312} },
-  { slug:'desk-lamp', locked:true, title:'Desk Lamp', what:'A desk lamp in the dark, one flat grey silhouette built in 3D: rigid arms, a bell shade, a hard white cone of light ending in a pool on the desk. Drag the shade sideways to turn the lamp all the way round, up or down to tip it; drag the base to move it.', year:'2026', kind:'interaction', live:'pieces/desk-lamp/', code:'https://github.com/vod123qwe/playground/tree/main/lab-board/pieces/desk-lamp', image:'thumbs/desk-lamp.jpg?v=4', words:['light', 'flat', '3D', 'turn'], rect:{x:700,y:480,w:420,h:315} },
   { empty:true, rect:{x:1080,y:760,w:300,h:300} },
   { slug:'apartment-walk', title:'Apartment Walk', what:'A flat traced from its floor plan into 3D, in real centimetres: walls and piers straight from the drawing, 14 openings sized as in the architect’s plan, three balconies. Look at it from above and cut the walls at any height, or step in and walk it at eye height (WASD, or a stick on the phone).', year:'2026', kind:'walkthrough', live:'pieces/apartment-walk/', code:'https://github.com/vod123qwe/playground/tree/main/lab-board/pieces/apartment-walk', image:'thumbs/apartment-walk.jpg', video:'thumbs/apartment-walk-hover.webm', depth:'thumbs/depth/apartment-walk.png', words:['floor plan', 'real cm', 'walk', 'three.js'], rect:{x:1520,y:420,w:460,h:250} },
   { empty:true, rect:{x:2080,y:740,w:270,h:480} },
@@ -528,8 +527,9 @@ const PIECES = [
   { slug:'badge', fresh:true, preview:'pieces/badge/?demo=1', title:'Badge', what:'A badge on a lanyard, hanging from two straps spread wide above. Grab it and throw it: it swings and turns about its ring, the straps go slack and taut. Its graphic takes one of seven forms: a stripes generator (lines across the stripes swap their colours, so arrows, Vs, lenses and bowties come out of plain stripes), rays, threads, orbits, blobs, facets, an eye that follows you, or a wall of tiles you can re-deal one by one; the type one of three setups. A tap deals a new one; a panel tunes it all.', year:'2026', kind:'interaction', live:'pieces/badge/', code:'https://github.com/vod123qwe/playground/tree/main/lab-board/pieces/badge', image:'thumbs/badge.jpg?v=3', words:['lanyard', 'verlet', 'op art', 'generator'], rect:{x:1130,y:1180,w:330,h:470} },
   { slug:'cursors', locked:true, preview:'pieces/cursors/?demo=1', variants:4, title:'Cursors', what:'Four cursors over one page, each with a ground to work on: Pixel (a trail of pixels on a grid that shrink and fade, a burst on a click, blended by difference), Spotlight (the page under a veil, the cursor a soft light that opens it), Goo (blobs that melt into one another and invert what they cover) and Snap (a dot that becomes the outline of what you can press, and pulls it). Light or dark; a panel tunes the one on.', year:'2026', kind:'interaction', live:'pieces/cursors/', code:'https://github.com/vod123qwe/playground/tree/main/lab-board/pieces/cursors', image:'thumbs/cursors.jpg', words:['cursor', 'trail', 'hover', 'blend'], rect:{x:2150,y:120,w:400,h:300} },   // (later: back to it after the rest, 06.10.2026)
   { empty:true, rect:{x:1600,y:800,w:270,h:480} },
-  { slug:'keyboard', locked:true, fresh:true, preview:'pieces/keyboard/?demo=1', title:'Keyboard', what:'A flat low-profile keyboard drawn in the line style: low keys in an aluminium slab, every cap outlined, its legend printed on top. Click a key or type on your own keyboard and it goes down with a soft click (Soft, Thock or Crisp, made on the spot) and comes back up.', year:'2026', kind:'interaction', live:'pieces/keyboard/', code:'https://github.com/vod123qwe/playground/tree/main/lab-board/pieces/keyboard', image:'thumbs/keyboard.jpg', words:['keyboard', 'line art', 'sound', 'three.js'], rect:{x:2020,y:1350,w:450,h:240} },
+  { slug:'keyboard', fresh:true, preview:'pieces/keyboard/?demo=1', title:'Keyboard', what:'A flat low-profile keyboard drawn in the line style: low keys in an aluminium slab, every cap outlined, its legend printed on top. Click a key or type on your own keyboard and it goes down with a soft click (Soft, Thock or Crisp, made on the spot) and comes back up. Above the keys a control strip: a mute slide with its light, a volume knob that clicks in steps, a small screen (what you type and your speed, the stats, the time) and two round buttons; the keys light up where you type.', year:'2026', kind:'interaction', live:'pieces/keyboard/', code:'https://github.com/vod123qwe/playground/tree/main/lab-board/pieces/keyboard', image:'thumbs/keyboard.jpg?v=4', words:['keyboard', 'line art', 'sound', 'three.js'], rect:{x:2020,y:1350,w:450,h:240} },
   { empty:true, rect:{x:2560,y:1010,w:280,h:500} },
+  { slug:'desk-lamp', locked:true, title:'Desk Lamp', what:'A desk lamp in the dark, one flat grey silhouette built in 3D: rigid arms, a bell shade, a hard white cone of light ending in a pool on the desk. Drag the shade sideways to turn the lamp all the way round, up or down to tip it; drag the base to move it.', year:'2026', kind:'interaction', live:'pieces/desk-lamp/', code:'https://github.com/vod123qwe/playground/tree/main/lab-board/pieces/desk-lamp', image:'thumbs/desk-lamp.jpg?v=4', words:['light', 'flat', '3D', 'turn'], rect:{x:700,y:480,w:420,h:315} },
 ];
 const pad2 = n => String(n).padStart(2, '0');
 

diff --git a/lab-board/pieces/keyboard/README.md b/lab-board/pieces/keyboard/README.md
@@ -14,7 +14,21 @@
 - Najechanie tylko rozjaśnia klawisz, bez dźwięku (zasada Jarka: gdzie się klika, dźwięk tylko przy kliknięciu).
 - Klik myszą albo własna klawiatura wciska klawisz z miękkim klikiem, a puszczenie daje cichszy klik.
 - Nasadka ugina się od góry, a dół zostaje na płycie, więc linia styku jest zawsze narysowana.
-- Przeciąganie tła obraca widok, a kółko myszy albo − / + przybliża.
+- Widok jest stały, na wprost i lekko z góry; kółko myszy albo − / + przybliża.
+
+**Listwa sterowania (06.10.2026, pomysł Jarka plus dodatki z przeglądu klawiatur z ekranami i pokrętłami):** pas płyty za rzędem funkcyjnym.
+- **Suwak wyciszenia ze szczeliną i diodą:** dioda świeci na zielono, gdy dźwięk jest włączony. Klik przełącza suwak, a ekran pokazuje „MUTED” albo „SOUND ON”.
+- **Ekran:** ciemne szkło w ramce, tekst w Geist Mono. Trzy ekrany do przełączania:
+  - Type: to, co piszesz, z migającym kursorem i tempem pisania (WPM);
+  - Stats: WPM, liczba naciśniętych klawiszy, rodzaj kliku, głośność;
+  - Clock: godzina z migającym dwukropkiem i data.
+  Na chwilę wskakują też komunikaty: pasek głośności przy kręceniu pokrętłem, „CLICK · …”, „CAPS LOCK ON/OFF”, „LIGHT/DARK”.
+- **Dwa okrągłe przyciski:** lewy zmienia ekran, a prawy zmienia klik (Soft, Thock, Crisp).
+- **Pokrętło głośności:** wystający bęben z karbowaniem, kreską na górze i skalą wokół (zakres 270°). Kręci się przeciąganiem albo kółkiem myszy nad nim. Co 5% słychać ząbek (detent).
+- **Boczny suwak na prawej krawędzi płyty:** przełącza tryb jasny i ciemny.
+- **Dioda Caps Lock na klawiszu:** świeci po włączeniu i jest zsynchronizowana ze stanem prawdziwej klawiatury.
+- **Podświetlenie reagujące:** wciśnięty klawisz rozjaśnia się od razu i powoli gaśnie, a od niego po sąsiednich klawiszach rozchodzi się pierścień światła. Wyłącza je opcja „Light that answers the keys”.
+- **Pisanie:** Shift i Caps Lock zmieniają wielkość liter, Backspace kasuje znak, Return czyści linię.
 
 **Dźwięk:** syntezowany w przeglądarce, bez plików.
 - Charakter do wyboru: Soft (domyślny), Thock albo Crisp.
